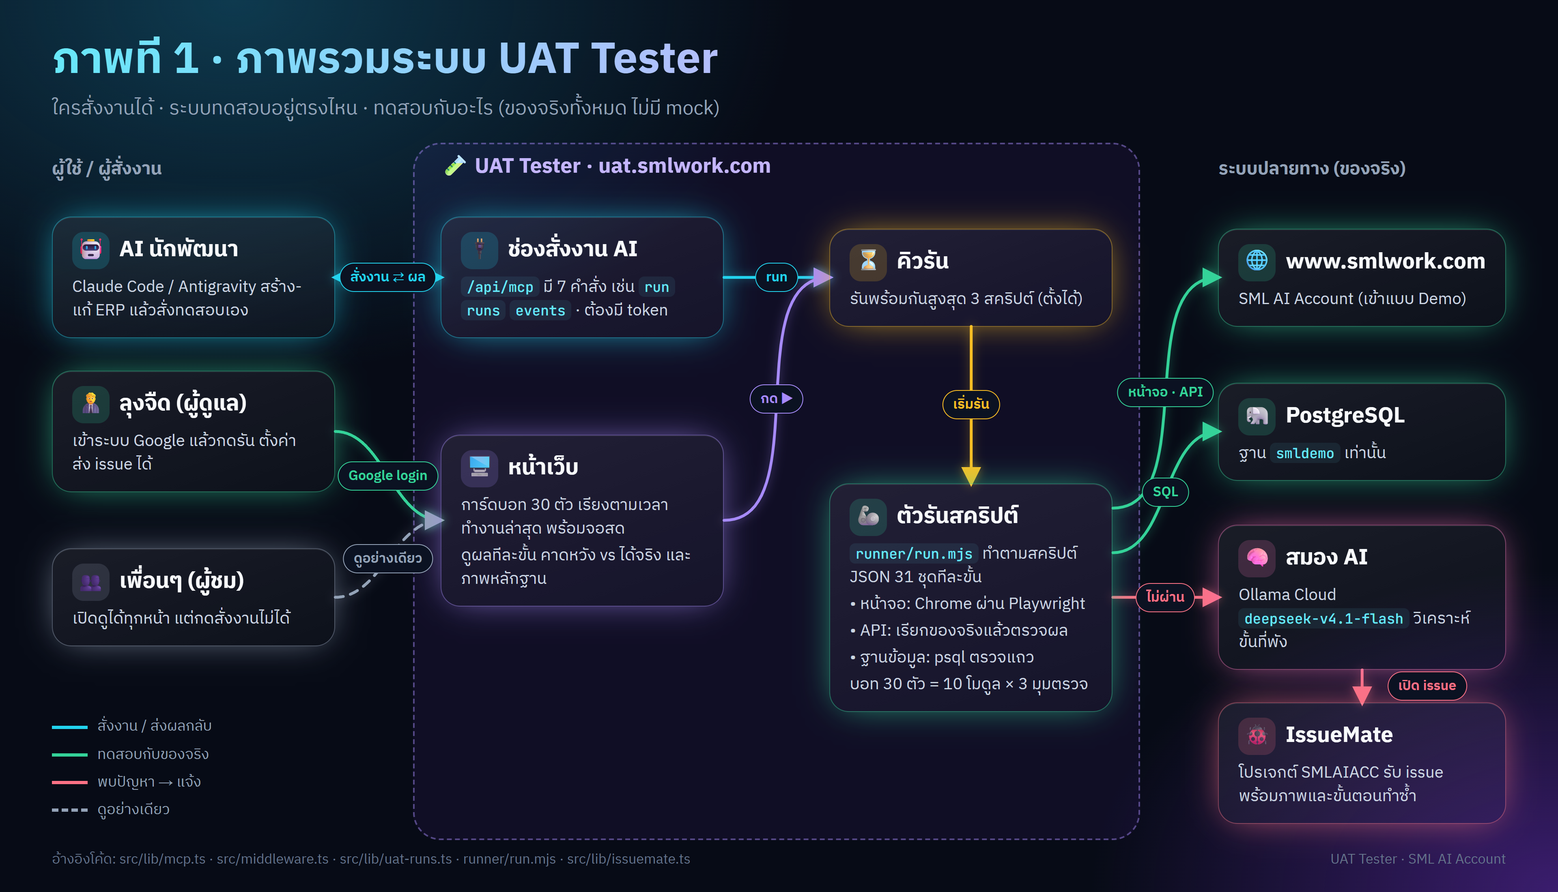
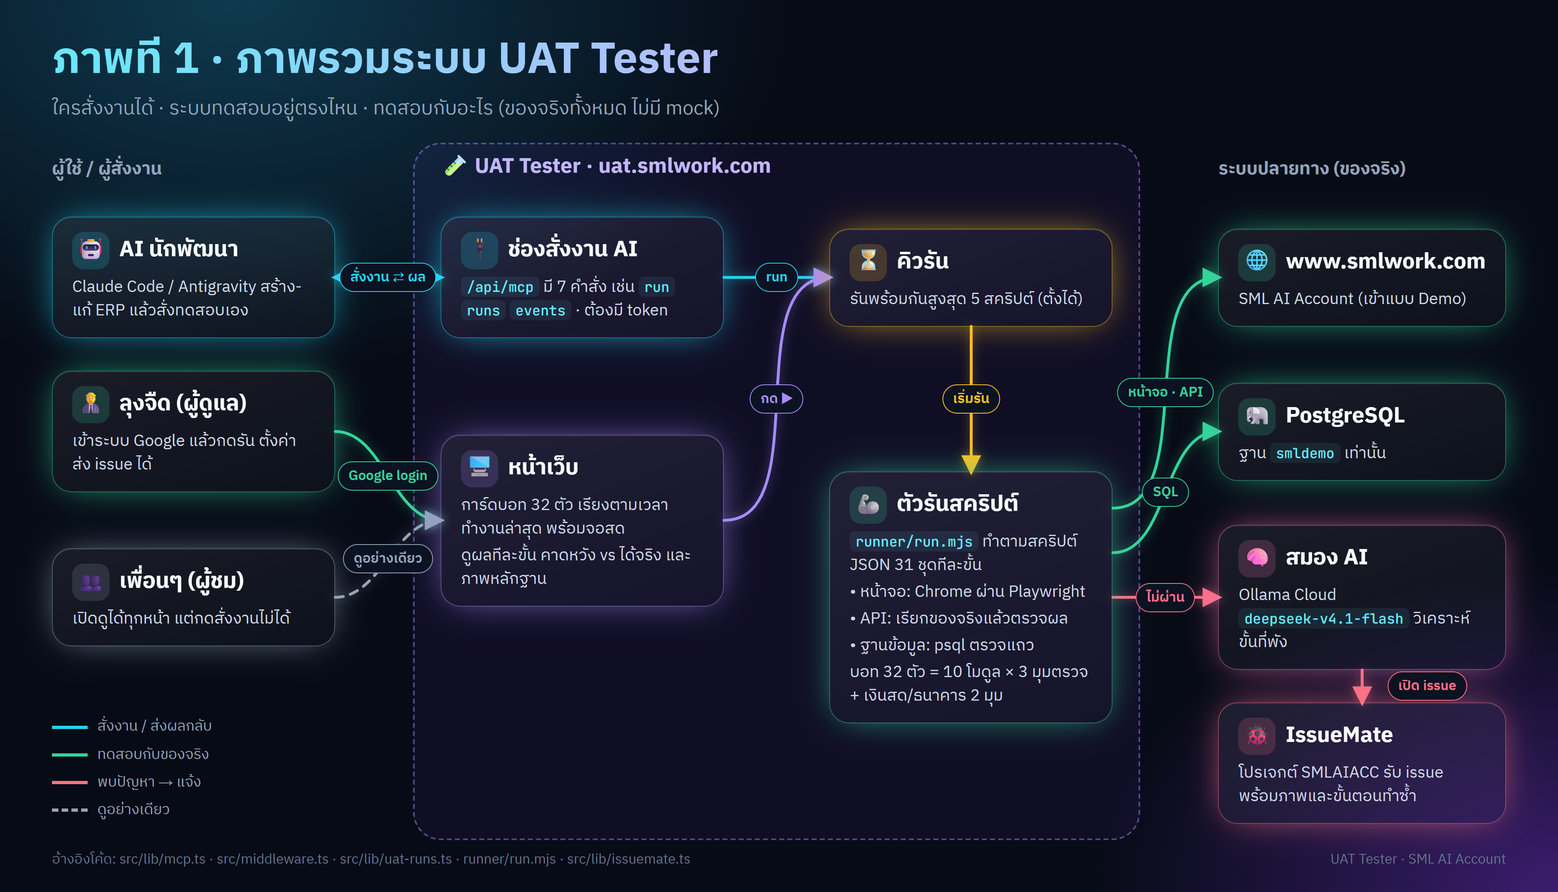
feat: add cash/bank module bots (screen + data) for 32 bots in total
The ERP's cash/bank menu group (114 menus) had no owning bot. bot-31/bot-32
are appended so the ids of bot-01..30 stay the same. Scripts are rejected
when their module/lens pair has no bot (cash has no API lens yet).
Docs and guide images also show the new parallel default of 5.

Changed region(s): [[0.5312, 0.4945, 0.7188, 0.8345], [0.5938, 0.4327, 0.6562, 0.4636]]

diff --git a/src/app/guide/page.tsx b/src/app/guide/page.tsx
@@ -5,7 +5,7 @@ import { ArrowLeft, BookOpen } from "lucide-react";
 // คู่มือใช้งานสำหรับเพื่อนๆ: ภาพ Workflow 3 ภาพ (สร้างจาก docs/workflow/*.html ด้วย render.mjs) + วิธีอ่านหน้าเว็บ
 const SITE = "https://uat.smlwork.com";
 const TITLE = "คู่มือใช้งาน UAT Tester · ฝูงบอททดสอบ SML AI Account";
-const DESC = "อธิบายวิธีทำงานของ UAT Tester: บอท 30 ตัวทดสอบ SML AI Account ทั้งหน้าจอ API และฐานข้อมูล Demo ไม่ผ่านเปิด issue ใน IssueMate เอง พร้อมภาพ Workflow 3 ภาพ";
+const DESC = "อธิบายวิธีทำงานของ UAT Tester: บอท 32 ตัวทดสอบ SML AI Account ทั้งหน้าจอ API และฐานข้อมูล Demo ไม่ผ่านเปิด issue ใน IssueMate เอง พร้อมภาพ Workflow 3 ภาพ";
 
 export const metadata: Metadata = {
   metadataBase: new URL(SITE),
@@ -26,7 +26,7 @@ const FIGS = [
     points: [
       "ใครก็เปิดดูหน้าเว็บได้ แต่การสั่งรัน ตั้งค่า ถาม AI และส่ง issue ทำได้เฉพาะผู้ดูแลที่เข้าระบบด้วย Google",
       "AI นักพัฒนา (Claude Code / Antigravity) สั่งงานผ่านช่อง MCP ที่ /api/mcp โดยใช้ token",
-      "ทุกคำสั่งรันเข้าคิวก่อน รันพร้อมกันได้สูงสุด 3 รอบ (ผู้ดูแลปรับได้ 1–10)",
+      "ทุกคำสั่งรันเข้าคิวก่อน รันพร้อมกันได้สูงสุด 5 รอบ (ผู้ดูแลปรับได้ 1–10)",
       "ตัวรันทดสอบกับของจริงทั้งหมด: เว็บ www.smlwork.com (เข้าแบบ Demo) และฐาน PostgreSQL smldemo เท่านั้น",
       "รอบที่ไม่ผ่าน สมอง AI อ่านขั้นที่พังพร้อมภาพหน้าจอ แล้วระบบเปิด issue ในโปรเจกต์ SMLAIACC ของ IssueMate",
     ],
@@ -70,7 +70,7 @@ const HOWTO = [
 ];
 
 const FAQ = [
-  ["ทำไมบอทมี 30 ตัว", "10 โมดูล (ข้อมูลหลัก งานขาย งานซื้อ สต็อก บัญชี GL ภาษี รายงาน สิทธิ์ความปลอดภัย แอดมิน กระทบยอด) × 3 มุมตรวจ (หน้าจอ ฐานข้อมูล API)"],
+  ["ทำไมบอทมี 32 ตัว", "10 โมดูล (ข้อมูลหลัก งานขาย งานซื้อ สต็อก บัญชี GL ภาษี รายงาน สิทธิ์ความปลอดภัย แอดมิน กระทบยอด) × 3 มุมตรวจ (หน้าจอ ฐานข้อมูล API) + เงินสด/ธนาคาร 2 มุม (หน้าจอ ฐานข้อมูล)"],
   ["ทดสอบกับข้อมูลลูกค้าจริงไหม", "ไม่ ตัวรันยอมให้แตะเฉพาะฐาน Demo ชื่อ smldemo และเข้าเว็บด้วยปุ่ม Demo"],
   ["บทวิเคราะห์ของสมอง AI เชื่อได้แค่ไหน", "เป็นการคาดเดาจากขั้นที่พังและภาพหน้าจอ ต้องตรวจโค้ดจริงก่อนแก้ทุกครั้ง"],
   ["ทำไมกดรันไม่ได้", "การสั่งงานต้องเข้าระบบด้วย Google บัญชีผู้ดูแล คนอื่นดูผลได้ทุกหน้าแต่สั่งงานไม่ได้"],
@@ -101,7 +101,7 @@ export default function GuidePage() {
           {TITLE}
         </h1>
         <p className="mt-3 max-w-4xl text-[1.02rem] leading-relaxed text-slate-300">
-          UAT Tester คือเว็บที่ให้บอท 30 ตัวทดสอบโปรแกรมบัญชี SML AI Account (www.smlwork.com) ตามสคริปต์ทีละขั้น ทั้งหน้าจอ API และฐานข้อมูล Demo เจอปัญหาจะเปิด issue ใน IssueMate ให้เอง
+          UAT Tester คือเว็บที่ให้บอท 32 ตัวทดสอบโปรแกรมบัญชี SML AI Account (www.smlwork.com) ตามสคริปต์ทีละขั้น ทั้งหน้าจอ API และฐานข้อมูล Demo เจอปัญหาจะเปิด issue ใน IssueMate ให้เอง
           นักพัฒนาที่เป็น AI สั่งทดสอบซ้ำได้เองจนกว่าจะผ่าน ส่วนเพื่อนๆ เปิดดูผลได้ทุกหน้าโดยไม่ต้องล็อกอิน
         </p>
         <nav aria-label="สารบัญ" className="mt-4 flex flex-wrap gap-2 text-sm">

diff --git a/src/lib/mcp.ts b/src/lib/mcp.ts
@@ -14,7 +14,7 @@ import { SCRIPT_DIR, loadScripts } from "./uat-scripts";
 
 // MCP tools ของ UAT Tester — คำอธิบายเป็นอังกฤษสั้นและผลลัพธ์เป็นบรรทัดกะทัดรัด เพื่อประหยัด token ของ AI ที่เรียก
 const STEP_KINDS = ["ui.goto", "ui.demoLogin", "ui.adminLogin", "ui.openMenu", "ui.click", "ui.fill", "ui.select", "ui.press", "ui.readText", "ui.expectText", "ui.expectVisible", "ui.expectValue", "ui.expectUrl", "ui.expectClean", "ui.screenshot", "ui.pdf", "ui.act", "ui.see", "ui.play", "api.request", "report.pdf", "db.query", "db.exec", "wait", "set"];
-export const SCRIPT_FORMAT = `Shape: {id(a-z0-9-),title,module(master|sales|purchase|inventory|gl|tax|reports|security|admin|recon),lens(screen|data|api),severityOnFail(S1-S4),description,steps[],cleanup[]}. Step = {title,do,...}; do: ${STEP_KINDS.join(" ")}. ui.adminLogin{targetPath:/admin/providers|/home} = System Admin login with server-held credentials (never put passwords in scripts). ui.act{instruction} = Stagehand does one plain-Thai action; ui.see{expect} = AI judges the screenshot; ui.play{goal,maxSteps<=30} = Computer Use loop (AI clicks/types until done, its findings fail the step, may save test docs tagged {{run.tag}}). api.request{method,path,body,expectStatus,expect[]}, report.pdf{body,contains[]} = download the PDF of a report like a user pressing print (POST /api/process/report/pdf, same body as /api/process/report/run) and require each text in contains; ui.pdf{selector,contains[]} = click a screen button that downloads a PDF (e.g. the download button of the print preview) and check it the same way (use numbers/doc numbers; some Thai tone marks are private-use glyphs in the PDF), db.query{sql,database,rows,expect[],save{var:col}} (read-only, psql :'var'), db.exec{sql,database,affected}; database = smldemo (default; db.exec only for rows prefixed UAT) | smluatadmin | smlerpmainuatadmin | uat_<name> from test_db (your own copy of smldemo: any change allowed). expect item {path|col,op:eq|ne|same|gt|gte|lt|lte|contains|matches|exists|empty,value}; {{var}} interpolation. Money compared as decimal.`;
+export const SCRIPT_FORMAT = `Shape: {id(a-z0-9-),title,module(master|sales|purchase|inventory|gl|tax|reports|security|admin|recon|cash),lens(screen|data|api; cash = เงินสด/ธนาคาร/เช็ค has screen|data only),severityOnFail(S1-S4),description,steps[],cleanup[]}. Step = {title,do,...}; do: ${STEP_KINDS.join(" ")}. ui.adminLogin{targetPath:/admin/providers|/home} = System Admin login with server-held credentials (never put passwords in scripts). ui.act{instruction} = Stagehand does one plain-Thai action; ui.see{expect} = AI judges the screenshot; ui.play{goal,maxSteps<=30} = Computer Use loop (AI clicks/types until done, its findings fail the step, may save test docs tagged {{run.tag}}). api.request{method,path,body,expectStatus,expect[]}, report.pdf{body,contains[]} = download the PDF of a report like a user pressing print (POST /api/process/report/pdf, same body as /api/process/report/run) and require each text in contains; ui.pdf{selector,contains[]} = click a screen button that downloads a PDF (e.g. the download button of the print preview) and check it the same way (use numbers/doc numbers; some Thai tone marks are private-use glyphs in the PDF), db.query{sql,database,rows,expect[],save{var:col}} (read-only, psql :'var'), db.exec{sql,database,affected}; database = smldemo (default; db.exec only for rows prefixed UAT) | smluatadmin | smlerpmainuatadmin | uat_<name> from test_db (your own copy of smldemo: any change allowed). expect item {path|col,op:eq|ne|same|gt|gte|lt|lte|contains|matches|exists|empty,value}; {{var}} interpolation. Money compared as decimal.`;
 const str = { type: "string" } as const;
 const bool = { type: "boolean" } as const;
 const strs = { type: "array", items: str } as const;

diff --git a/src/lib/swarm-data.ts b/src/lib/swarm-data.ts
@@ -29,6 +29,7 @@ interface Seed {
   avatarIcon: string;
   accent: string;
   focus: string;
+  lenses?: Lens[]; // ไม่ระบุ = ครบ 3 มุม
 }
 
 // ข้อมูลโมดูลใช้ทั้งฝั่งเซิร์ฟเวอร์และหน้าจอ (ไม่มี import ของ node)
@@ -123,16 +124,28 @@ export const MODULES: Seed[] = [
     accent: "#f472b6",
     focus: "กระทบยอด: gl_journal (หัว) เทียบ sum(gl_journal_detail) ทั้งเดบิตและเครดิต, ยอดเอกสารซื้อขายเทียบยอด GL ที่ลงบัญชี",
   },
+  // ต่อท้ายเสมอ: เลขบอทมาจากลำดับ (bot-31, bot-32) — แทรกกลางจะทำให้ id บอทเดิมเลื่อน
+  // ponytail: ยังไม่มีมุม API — เพิ่มใน lenses เมื่อมีสคริปต์ API ของเงินสด/ธนาคาร
+  {
+    role: "cash",
+    name: "ผู้ตรวจ เงินสด/ธนาคาร",
+    roleTitle: "UAT เงินสด/ธนาคาร",
+    roleDescription: "เงินสดย่อย รายได้/ค่าใช้จ่ายอื่นๆ ฝาก ถอน โอน เช็ครับ เช็คจ่าย บัตรเครดิต — ยอดเงินและสถานะเช็คถูกต้อง ลง GL ครบ",
+    avatarIcon: "Landmark",
+    accent: "#a3e635",
+    focus: "เงินสด/ธนาคาร: ตาราง cb_trans, cb_trans_detail, cb_chq_list — ฝาก/ถอน/โอนระหว่างธนาคาร, เช็ครับ-จ่าย (นำฝาก ผ่าน คืน เปลี่ยน ขาดสิทธิ์) และการยกเลิก, เงินสดย่อย, ยอดลง gl_journal_detail ตรงกับเอกสาร",
+    lenses: ["screen", "data"],
+  },
 ];
 
-// 3 มุมตรวจต่อโมดูล → 10 โมดูล × 3 = 30 บอท
+// 3 มุมตรวจต่อโมดูล (เงินสด/ธนาคาร 2 มุม) → 10 × 3 + 2 = 32 บอท
 export const LENSES: { key: Lens; label: string; how: string }[] = [
   { key: "screen", label: "หน้าจอ", how: "ทำผ่านหน้าจอจริงบน Chrome: คลิก กรอก บันทึก แก้ไข ลบ แล้วดูผลบนหน้าจอ ข้อความแจ้งเตือน และ console" },
   { key: "data", label: "ฐานข้อมูล", how: "ตรวจใน PostgreSQL (ฐาน Demo): แถวต้องตรงกับที่เห็นบนหน้าจอ ผลรวม รายการกำพร้า รหัสซ้ำ ทศนิยมและการปัดเศษ" },
   { key: "api", label: "API", how: "ตรวจที่ API: รหัสสถานะ โครงสร้างข้อมูล สิทธิ์ (401/403) ค่าขอบเขตและค่าแปลก ข้อความผิดพลาดต้องไม่เปิดเผยข้อมูลภายใน" },
 ];
 
-export const INITIAL_BOTS: BotConfig[] = MODULES.flatMap((s) => LENSES.map((l) => ({ s, l }))).map(({ s, l }, k) => ({
+export const INITIAL_BOTS: BotConfig[] = MODULES.flatMap((s) => LENSES.filter((l) => !s.lenses || s.lenses.includes(l.key)).map((l) => ({ s, l }))).map(({ s, l }, k) => ({
   id: `bot-${String(k + 1).padStart(2, "0")}`,
   number: k + 1,
   name: `${s.name} · ${l.label}`,

diff --git a/docs/workflow/1-overview.html b/docs/workflow/1-overview.html
@@ -50,13 +50,13 @@
   </div>
   <div class="node" id="web" style="grid-column:2;grid-row:3 / 5;--c:#a78bfa">
     <h3><span class="ic">🖥</span>หน้าเว็บ</h3>
-    <p>การ์ดบอท 30 ตัว เรียงตามเวลาทำงานล่าสุด พร้อมจอสด</p>
+    <p>การ์ดบอท 32 ตัว เรียงตามเวลาทำงานล่าสุด พร้อมจอสด</p>
     <p>ดูผลทีละขั้น คาดหวัง vs ได้จริง และภาพหลักฐาน</p>
   </div>
 
   <div class="node" id="queue" style="grid-column:3;grid-row:2;--c:#fbbf24">
     <h3><span class="ic">⏳</span>คิวรัน</h3>
-    <p>รันพร้อมกันสูงสุด 3 สคริปต์ (ตั้งได้)</p>
+    <p>รันพร้อมกันสูงสุด 5 สคริปต์ (ตั้งได้)</p>
   </div>
   <div class="node" id="runner" style="grid-column:3;grid-row:3 / 6;--c:#34d399">
     <h3><span class="ic">🦾</span>ตัวรันสคริปต์</h3>
@@ -64,7 +64,7 @@
     <p>• หน้าจอ: Chrome ผ่าน Playwright</p>
     <p>• API: เรียกของจริงแล้วตรวจผล</p>
     <p>• ฐานข้อมูล: psql ตรวจแถว</p>
-    <p>บอท 30 ตัว = 10 โมดูล × 3 มุมตรวจ</p>
+    <p>บอท 32 ตัว = 10 โมดูล × 3 มุมตรวจ + เงินสด/ธนาคาร 2 มุม</p>
   </div>
 
   <div class="node" id="www" style="grid-column:4;grid-row:2;--c:#34d399">

diff --git a/src/components/HeroStats.tsx b/src/components/HeroStats.tsx
@@ -75,7 +75,7 @@ export const HeroStats: React.FC<HeroProps> = ({ bots, scripts, runs }) => {
           หน้าจอ · API · PostgreSQL
         </h1>
         <p className="rise mt-4 max-w-[46rem] text-[0.95rem] leading-relaxed text-slate-400" style={{ "--i": 2 } as React.CSSProperties}>
-          บอท 30 ตัวแบ่ง 10 โมดูล × 3 มุมตรวจ รันสคริปต์กับเว็บ UAT จริง ตรวจแถวในฐาน Demo หลังทุกการบันทึก ขั้นไหนพังจะเห็นค่าที่คาดหวังเทียบค่าจริงพร้อมภาพหลักฐานทันที
+          บอท 32 ตัวแบ่ง 10 โมดูล × 3 มุมตรวจ + เงินสด/ธนาคาร 2 มุม รันสคริปต์กับเว็บ UAT จริง ตรวจแถวในฐาน Demo หลังทุกการบันทึก ขั้นไหนพังจะเห็นค่าที่คาดหวังเทียบค่าจริงพร้อมภาพหลักฐานทันที
         </p>
         <div className="mt-6 grid grid-cols-2 gap-3 sm:grid-cols-3 xl:grid-cols-5">
           <Kpi i={3} icon={<Bot className="h-4 w-4" />} label="บอททั้งหมด" value={bots.length} sub={`มีสคริปต์แล้ว ${coveredBots} ตัว`} tone="text-cyan-300" />

diff --git a/src/lib/uat-scripts.ts b/src/lib/uat-scripts.ts
@@ -1,7 +1,7 @@
 import { readdirSync, readFileSync } from "node:fs";
 import { join } from "node:path";
 import { Lens, UatScript } from "@/types/bot";
-import { LENSES, ROLES } from "./swarm-data";
+import { INITIAL_BOTS, LENSES, ROLES } from "./swarm-data";
 
 export const SCRIPT_DIR = join(process.cwd(), "uat-scripts");
 // ask-* = AI เขียนตามคำสั่งผู้ใช้ · auto-* = AI คิดเองหลังจบชุดทดสอบ — ทั้งคู่ต้องตรวจสคริปต์ก่อนเชื่อผล
@@ -27,6 +27,7 @@ export function loadScripts(): { scripts: LoadedScript[]; errors: { file: string
       const usesDb = steps.some((s) => s.do?.startsWith("db."));
       const lens: Lens = j.lens ?? (usesDb ? "data" : "screen"); // ไม่ระบุ: มี db.* = บอทฐานข้อมูล, ไม่มี = บอทหน้าจอ
       if (!LENSES.some((l) => l.key === lens)) throw new Error(`lens "${lens}" ต้องเป็น screen / data / api`);
+      if (!INITIAL_BOTS.some((b) => b.role === j.module && b.lens === lens)) throw new Error(`โมดูล "${j.module}" ไม่มีบอทมุม ${lens}`);
       scripts.push({
         id: j.id,
         title: j.title,

diff --git a/src/lib/command.ts b/src/lib/command.ts
@@ -62,7 +62,7 @@ async function pickBots(command: string): Promise<BotConfig[]> {
   const text = await askBrain(
     "pick",
     getSettings().brainModel,
-    `คุณคือหัวหน้าทีม UAT ของ SML AI Account มีบอท 30 ตัว (10 โมดูล × 3 มุมตรวจ: หน้าจอ ฐานข้อมูล API) เลือกบอทที่ต้องลงมือตามคำสั่ง 1-${MAX_PICK} ตัว เฉพาะที่เกี่ยวจริง ตอบ JSON เท่านั้น`,
+    `คุณคือหัวหน้าทีม UAT ของ SML AI Account มีบอท 32 ตัว (10 โมดูล × 3 มุมตรวจ: หน้าจอ ฐานข้อมูล API + เงินสด/ธนาคาร มุมหน้าจอ ฐานข้อมูล) เลือกบอทที่ต้องลงมือตามคำสั่ง 1-${MAX_PICK} ตัว เฉพาะที่เกี่ยวจริง ตอบ JSON เท่านั้น`,
     `คำสั่ง: ${command}\n\nบอท (id | ชื่อ | หน้าที่):\n${list}`,
     [],
     PICK_SCHEMA,

diff --git a/src/app/layout.tsx b/src/app/layout.tsx
@@ -2,8 +2,8 @@ import type { Metadata, Viewport } from "next";
 import "./globals.css";
 
 export const metadata: Metadata = {
-  title: "UAT Tester · SML AI Account — ฝูงบอททดสอบ 30 ตัว",
-  description: "ทดสอบระบบ ERP SML AI Account ตามสคริปต์ทีละขั้นตอน ทั้งหน้าจอ API และฐานข้อมูล PostgreSQL (Demo) ด้วยบอท 30 ตัว",
+  title: "UAT Tester · SML AI Account — ฝูงบอททดสอบ 32 ตัว",
+  description: "ทดสอบระบบ ERP SML AI Account ตามสคริปต์ทีละขั้นตอน ทั้งหน้าจอ API และฐานข้อมูล PostgreSQL (Demo) ด้วยบอท 32 ตัว",
   robots: { index: false, follow: false }, // เครื่องมือภายใน ไม่เปิดให้ค้นหา
 };
 

diff --git a/src/components/SettingsModal.tsx b/src/components/SettingsModal.tsx
@@ -146,7 +146,7 @@ export const SettingsModal: React.FC<Props> = ({ open, settings, health, onClose
 
         <div className="flex flex-wrap items-center gap-3 border-t border-white/10 pt-4">
           <button
-            onClick={() => window.confirm("ล้างสถิติ ประวัติงาน และเหตุการณ์ของบอททั้ง 30 ตัว? (ผลการรันใน runs/ ยังอยู่)") && onReset()}
+            onClick={() => window.confirm("ล้างสถิติ ประวัติงาน และเหตุการณ์ของบอททั้ง 32 ตัว? (ผลการรันใน runs/ ยังอยู่)") && onReset()}
             className="baseline-center gap-1.5 rounded-xl border border-rose-400/30 px-3 py-2 text-[0.78rem] font-semibold text-rose-200 hover:bg-rose-500/10"
           >
             <RotateCcw className="h-3.5 w-3.5" />

diff --git a/docs/architecture-th.html b/docs/architecture-th.html
@@ -79,8 +79,8 @@
   <!-- ฝูงบอท -->
   <div class="card glow-v" style="left:500px;top:230px;width:400px;height:560px;">
     <span class="tag" style="background:rgba(167,139,250,.18);color:var(--violet)">ผู้ทดสอบ</span>
-    <h2>ฝูงบอท 30 ตัว</h2>
-    <p style="margin-top:6px">10 โมดูล × 3 มุมตรวจ<br>หน้าจอ · ฐานข้อมูล · API</p>
+    <h2>ฝูงบอท 32 ตัว</h2>
+    <p style="margin-top:6px">10 โมดูล × 3 มุมตรวจ + เงินสด/ธนาคาร 2 มุม<br>หน้าจอ · ฐานข้อมูล · API</p>
     <div class="chips">
       <div class="chip" style="color:#60a5fa"><i></i><span style="color:var(--text)">ข้อมูลหลัก</span></div>
       <div class="chip" style="color:#34d399"><i></i><span style="color:var(--text)">ขาย</span></div>

diff --git a/src/components/BotIcon.tsx b/src/components/BotIcon.tsx
@@ -10,6 +10,7 @@ import {
   Receipt,
   Scale,
   Settings,
+  Landmark,
   ShieldCheck,
   ShoppingCart,
   Truck,
@@ -18,7 +19,7 @@ import {
 
 // ชื่อไอคอนใน swarm-data.ts (avatarIcon) และไอคอนของมุมตรวจ
 const ICONS: Record<string, LucideIcon> = {
-  Database, ShoppingCart, Truck, Package, Scale, Receipt, BarChart3, ShieldCheck, Settings, GitCompare,
+  Database, ShoppingCart, Truck, Package, Scale, Receipt, BarChart3, ShieldCheck, Settings, GitCompare, Landmark,
   screen: Monitor, data: Database, api: Globe,
 };
 

diff --git a/docs/workflow/3-run.html b/docs/workflow/3-run.html
@@ -28,7 +28,7 @@
   </div>
   <div class="node" id="q" style="--c:#fbbf24">
     <h3><span class="ic">⏳</span>คิวรัน</h3>
-    <p>รันพร้อมกันสูงสุด 3 รอบ (ตั้งได้ 1–10) รอบอื่นรอคิว</p>
+    <p>รันพร้อมกันสูงสุด 5 รอบ (ตั้งได้ 1–10) รอบอื่นรอคิว</p>
   </div>
   <div class="node" id="r" style="--c:#34d399">
     <h3><span class="ic">🦾</span>ตัวรัน</h3>
